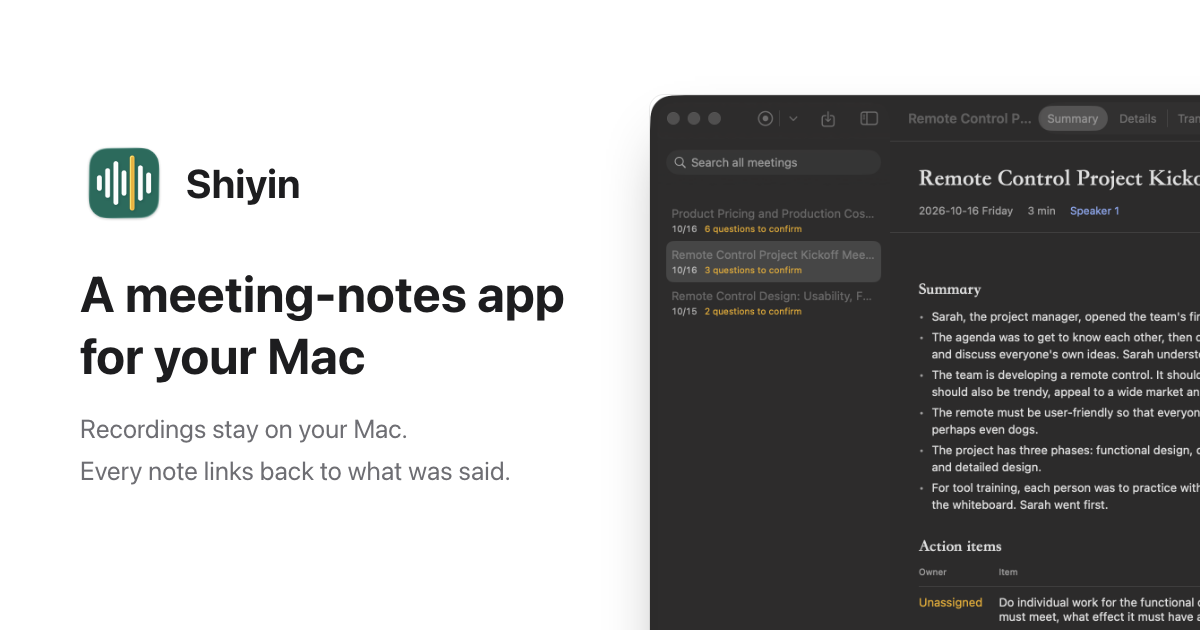
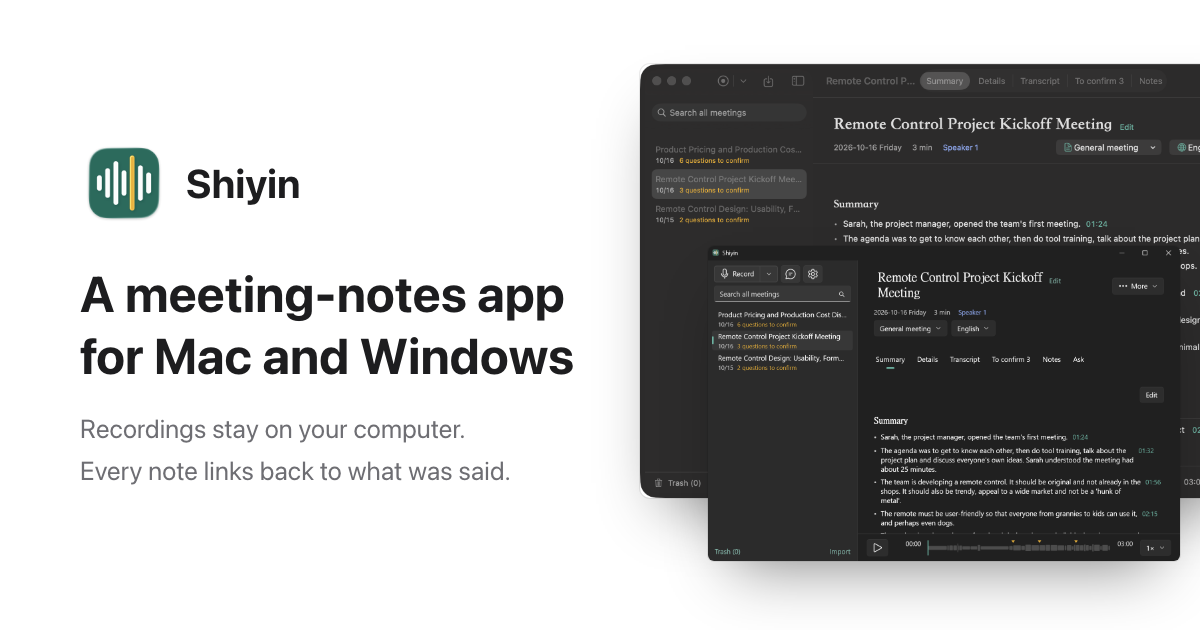
官網的分享預覽圖改成 Mac 和 Windows 一張（使用者要求：貼到 Threads 只看到「Mac 上的會議紀錄 app」）
- og.png、og-en.png、og-ja.png：標題「Mac 和 Windows 的會議紀錄 app」（英文 A meeting-notes app for Mac and Windows、
  日文 Mac と Windows の議事録アプリ），說明的「Mac」改成電腦；右邊 Mac 的截圖在後、Windows 的截圖在前
- og:image 的網址加 ?v=2（Threads、Facebook 依圖片網址快取），og:image:alt 改成跟圖上的標題一樣（content.mjs 的 ogAlt）
- 首頁的 <title>、說明、H1 不動（website.md §14.3、§16 以 Mac 為主）；website.md §16.1 寫進新的預覽圖和換圖時加版本

驗證：make-images.sh 重產，三張都是 1200×630、逐張看過；截圖的 AVIF 沒有變；node site/build.mjs 成功，
首頁、/ja/、/en/windows/ 的 og:image 是 ?v=2 的網址、alt 是新標題

diff --git a/site/og.html b/site/og.html
@@ -1,5 +1,5 @@
 <!doctype html>
-<!-- 分享預覽圖的版型（1200×630），make-images.sh 用 Chrome 截成 site/public/og.png、og-en.png、og-ja.png。不會部署。 -->
+<!-- 分享預覽圖的版型（1200×630，Mac、Windows 兩個平台一張），make-images.sh 用 Chrome 截成 site/public/og.png、og-en.png、og-ja.png。不會部署。 -->
 <html lang="zh-Hant">
 <head>
 <meta charset="utf-8">
@@ -11,30 +11,36 @@
   .name img { width: 88px; height: 88px; }
   h1 { margin: 36px 0 0; font-size: 50px; line-height: 1.25; font-weight: 700; }
   p { margin: 20px 0 0; font-size: 26px; line-height: 1.6; color: #6E6E73; }
-  .shot { position: absolute; left: 650px; top: 95px; width: 860px; border-radius: 14px; box-shadow: 0 30px 60px -24px rgba(0, 0, 0, .45), 0 0 0 1px rgba(0, 0, 0, .08); }
+  .shot { position: absolute; box-shadow: 0 30px 60px -24px rgba(0, 0, 0, .45), 0 0 0 1px rgba(0, 0, 0, .08); }
+  /* Mac 在後面露出左上角的紅黃綠，Windows 在前面露出右上角的視窗按鈕 */
+  .mac { left: 640px; top: 64px; width: 620px; border-radius: 10px; }
+  .win { left: 708px; top: 246px; width: 472px; border-radius: 6px; }
 </style>
 </head>
 <body>
 <div class="text">
   <div class="name"><img src="../docs/images/icon.png" alt=""><span id="name">拾音</span></div>
-  <h1 id="title">Mac 上的會議紀錄 app</h1>
+  <h1 id="title">Mac 和 Windows 的<br>會議紀錄 app</h1>
   <p id="lead">錄音不出電腦，<br>每一條紀錄都點得回原話。</p>
 </div>
-<img class="shot" id="shot" src="../docs/images/summary.png" alt="">
+<img class="shot mac" id="mac" src="../docs/images/summary.png" alt="">
+<img class="shot win" id="win" src="../docs/images/windows/summary.png" alt="">
 <script>
   if (location.search === '?ja') {
     document.documentElement.lang = 'ja';
     document.body.style.fontFamily = '-apple-system, BlinkMacSystemFont, "Hiragino Sans", sans-serif';
-    document.getElementById('title').textContent = 'Mac の議事録アプリ';
-    document.getElementById('lead').innerHTML = '録音は Mac の外に出ません。<br>各項目から実際の発言を聞き直せます。';
-    document.getElementById('shot').src = '../docs/images/en/summary.png';
+    document.getElementById('title').innerHTML = 'Mac と Windows の<br>議事録アプリ';
+    document.getElementById('lead').innerHTML = '録音はパソコンの外に出ません。<br>各項目から実際の発言を聞き直せます。';
+    document.getElementById('mac').src = '../docs/images/en/summary.png';
+    document.getElementById('win').src = '../docs/images/en/windows/summary.png';
   }
   if (location.search === '?en') {
     document.documentElement.lang = 'en';
     document.getElementById('name').textContent = 'Shiyin';
-    document.getElementById('title').textContent = 'A meeting-notes app for your Mac';
-    document.getElementById('lead').innerHTML = 'Recordings stay on your Mac.<br>Every note links back to what was said.';
-    document.getElementById('shot').src = '../docs/images/en/summary.png';
+    document.getElementById('title').innerHTML = 'A meeting-notes app<br>for Mac and Windows';
+    document.getElementById('lead').innerHTML = 'Recordings stay on your computer.<br>Every note links back to what was said.';
+    document.getElementById('mac').src = '../docs/images/en/summary.png';
+    document.getElementById('win').src = '../docs/images/en/windows/summary.png';
   }
 </script>
 </body>
